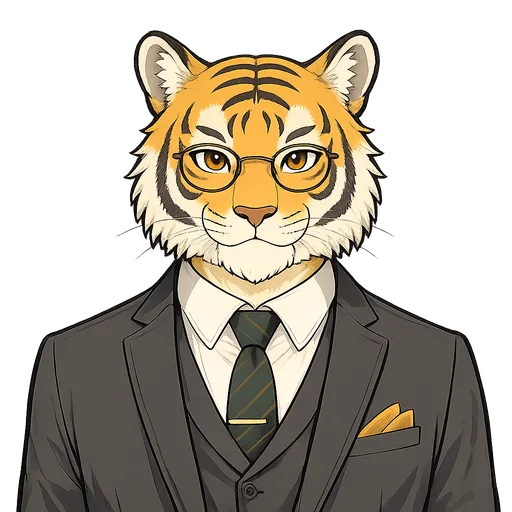
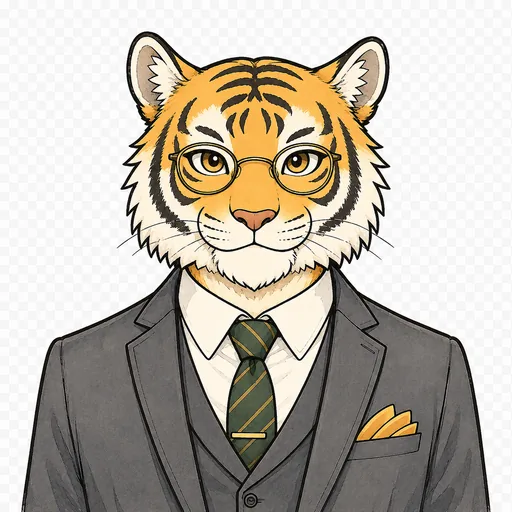
校長画像を背景付き新版に差し替え＋ティントを落ち着かせ＋校長ズームをWeb/モバイル統一（モバイル）
- tora_koutyou.webp を背景付き不透明版に差し替え
- 生徒ティント更に落ち着いた色へ（シエテ #ebe2e7 / ソワル #e3e9f1）
- 校長ズームの縦長クロップ（新正方形画像だと歪む）→全体cover表示に。枠も金 #fcd34d に統一。
  Web/モバイルで校長ズームの挙動が食い違っていたのを解消

diff --git a/app/training.tsx b/app/training.tsx
@@ -500,8 +500,9 @@ const styles = StyleSheet.create({
   doneScore: { fontSize: 13, color: c.textMid, marginBottom: 14 },
 
   zoomOverlay: { flex: 1, backgroundColor: 'rgba(0,0,0,0.6)', alignItems: 'center', justifyContent: 'center' },
-  zoomCircle: { width: 220, height: 220, borderRadius: 110, overflow: 'hidden', borderWidth: 4, borderColor: '#fde68a', backgroundColor: '#fff' },
-  zoomImage: { position: 'absolute', top: 0, width: 220, height: 290 },
+  zoomCircle: { width: 220, height: 220, borderRadius: 110, overflow: 'hidden', borderWidth: 4, borderColor: '#fcd34d', backgroundColor: '#fff' },
+  // 新しい校長画像は正方形なので、旧構図用の縦長クロップ（歪む）をやめて全体をcover表示にする
+  zoomImage: { width: '100%', height: '100%' },
 
   sheetContainer: { flex: 1, justifyContent: 'flex-end' },
   sheetOverlay: { ...StyleSheet.absoluteFillObject, backgroundColor: 'rgba(0,0,0,0.5)' },

diff --git a/lib/students.ts b/lib/students.ts
@@ -63,7 +63,7 @@ export const STUDENTS: Student[] = [
     avatar: require('../assets/samoedo-girl.webp'),
     color: '#ec4899',
     colorStrong: '#db2777',
-    tint: '#f2dce7',
+    tint: '#ebe2e7',
     endMessage: '⏰ あっ、もう時間！先生、今日もありがとうございました！✨',
     notebookMessage: '今日のノート送りますね！📷 添削してもらえたらうれしいです！',
     notebookThanks: 'わあっ、添削ありがとうございます！✨ 直してもらったところ、次までにちゃんと覚え直しますね！😊',
@@ -94,7 +94,7 @@ ${TEACHING_ROLE}`,
     avatar: require('../assets/samoedo-boy.webp'),
     color: '#3b82f6',
     colorStrong: '#2563eb',
-    tint: '#d9e4f0',
+    tint: '#e3e9f1',
     endMessage: '⏰ あ...もう時間なんですね。今日もありがとうございました🐾',
     notebookMessage: 'あの...今日のノートです...📷 まちがってたら教えてほしいです🐾',
     notebookThanks: '添削ありがとうございます...！なおしてもらったところ、ゆっくり覚え直します🐾😊',